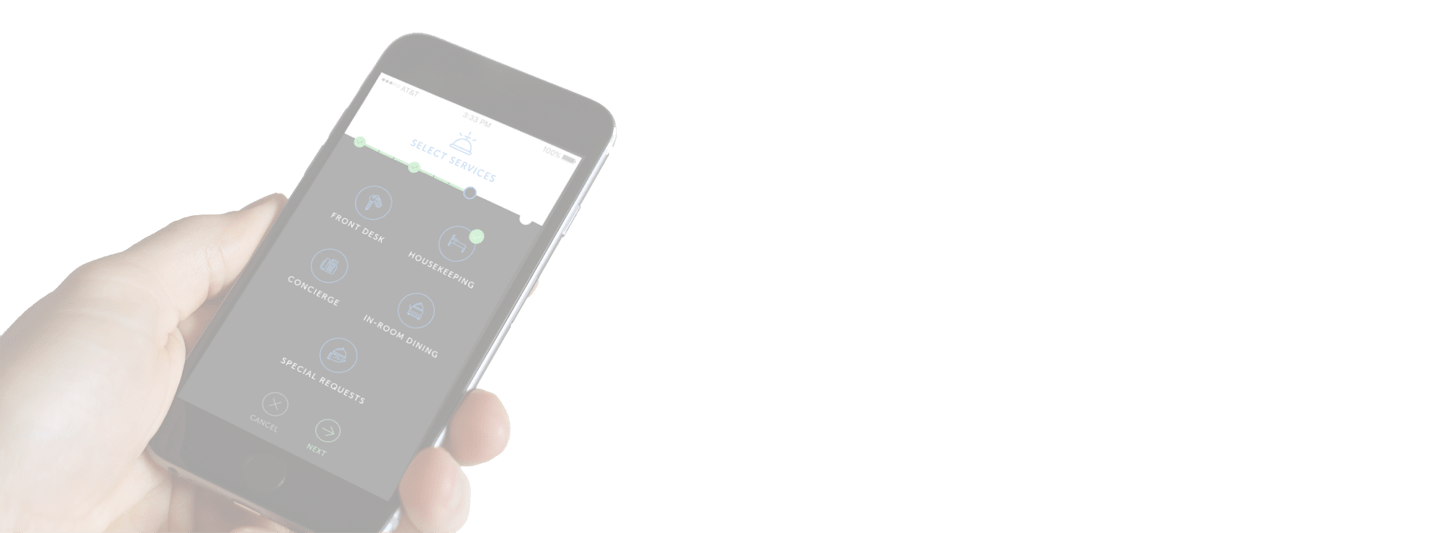
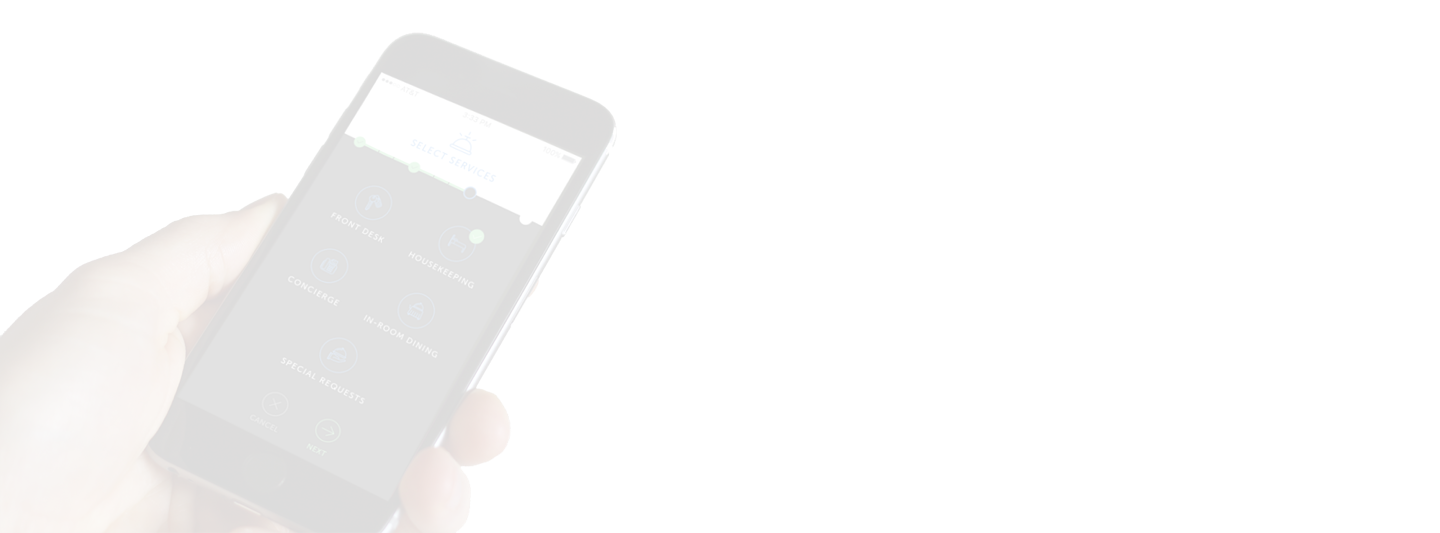
Transparent images for RWD and Update Fonts

Changed region(s): [[0.0, 0.06, 0.4375, 1.0], [0.0, 0.9906, 0.0312, 1.0], [0.0, 0.9306, 0.0312, 0.9606]]

diff --git a/css/custom.css b/css/custom.css
@@ -14,10 +14,10 @@ img {
 
 /* Typography
 –––––––––––––––––––––––––––––––––––––––––––––––––– */
-h1 { font-size: 35px; font-weight: 300; line-height: 1.2;  letter-spacing: 0px; font-family: "muli", sans-serif;}
+h1 { font-size: 35px; font-weight: 600; line-height: 1.2;  letter-spacing: 0px; font-family: "muli", sans-serif;}
 h2 { font-size: 28px; font-weight: 600;line-height: 36.6px; letter-spacing: .5px; font-family: "muli", sans-serif; }
 h3 { font-size: 20px; font-weight: 600; line-height: 29.34px;  letter-spacing: .35px; font-family: "muli", sans-serif; }
-h4 { font-size: 21px; font-weight: 300; line-height: 28.6px; letter-spacing: .4px; }
+h4 { font-size: 21px; font-weight: 400; line-height: 28.6px; letter-spacing: .4px; }
 h5 { font-size: 18px; line-height: 1.3;  letter-spacing: .05rem; }
 p { font-size: 20px; font-weight: 200; line-height: 27.6px;  letter-spacing: 0px; }
 
@@ -117,6 +117,17 @@ li {
     letter-spacing: 2px;
     text-decoration: none;
     color: #2B2B2B; 
+}
+
+.apple-download {
+    max-width: 35%;
+    padding: 3px;
+}
+
+
+.android-download {
+    max-width: 35%;
+    padding: 3px;
 }
 
 
@@ -236,13 +247,13 @@ li {
     background-repeat: no-repeat;    
     background-size: cover;
     max-width: 100%;
-    height: 211px;
+    height: 120px;
     padding-bottom: 20px;
 }
 
 .download-content {
     float: right;
-    margin-top: -140px;
+    margin-top: -180px;
     padding-top: 20px;
 }
 
@@ -254,7 +265,7 @@ li {
     height: auto;
     color: #EDE9E8;
     padding-top: 60px;
-    padding-left: 50px;
+    padding-left: 20px;
 }
 
 .footer-logo {
@@ -361,12 +372,15 @@ li {
     
 .download-app {
     background-image: url(../images/download-phone-trans.png);
-    margin-top: -200px;
-    height: 400px;
+    margin-top: -230px;
+    height: 250px;
 }
     
 .download-content {
-    margin-top: 50px;
+    margin-top: 0px;
+    float: right;
+    padding-top: 20px;
+    padding-left: 0px;
 } 
 }
 
@@ -461,7 +475,7 @@ li {
 }
 
 .download-content {
-    padding-left: 100px;
+    padding-left: 500px;
     margin-top: 50px;
 }
 

diff --git a/index.html b/index.html
@@ -15,7 +15,7 @@
 
   <!-- FONT
   –––––––––––––––––––––––––––––––––––––––––––––––––– -->
-  <link href="https://fonts.googleapis.com/css?family=Muli:200, 300,400,600,700" rel="stylesheet">
+  <link href="https://fonts.googleapis.com/css?family=Muli:200,400,600" rel="stylesheet">
     
  <!--<script src="https://use.typekit.net/irc6lcp.js"></script>
 <script>try{Typekit.load({ async: true });}catch(e){}</script> -->
@@ -71,8 +71,8 @@
           </div>
           <div class="eleven columns">          
               <img class="apple-download" src="images/apple-download-black.png">
-              <img class="android-download" src="images/android-download-black.png">  
-          </div>
+              <img class="android-download" src="images/android-download-black.png"> 
+          </div>        
       </div>
     </div>
   </div>
@@ -197,7 +197,7 @@
   <div class="section download-app">
     <div class="container">
       <div class="row">
-          <div class="two-thirds column download-content">
+          <div class="column download-content">
             <h2 class="section-heading">Ready to get your vacation back?</h2>
             <h5>Download UpStay app for free and sign up easily with your phone number and email.</h5>  
             <a class="button download button-primary" href="#">Download  App</a>
